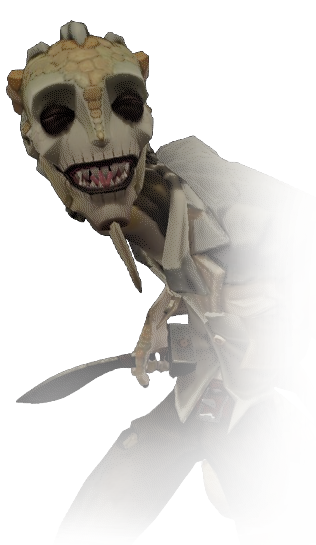
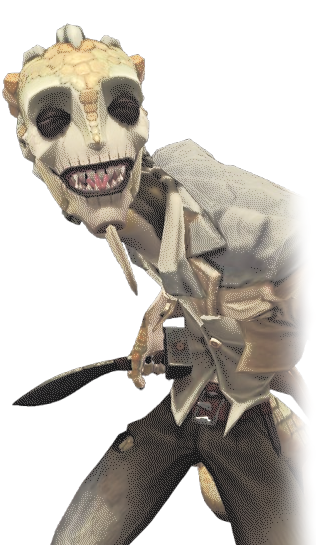
.

diff --git a/luchino_shrine/content.js b/luchino_shrine/content.js
@@ -2,11 +2,11 @@ function selectLink(menuLink) {
   switch (menuLink)
   {
     case "entrance":
-    document.getElementById("display").innerHTML = "<noscript><p>Your browser is unable to run this library. Please disable any javascript blockers or ensure your browser runs javascript.</p></noscript><h4 id='entrance'>&rarr; Valaistuminen</h4><div><p>Luchino is a heart-to-heart message from his designers about their own passions for herpetology, Lovecraft, and gothic metamorphose.</p><p>Welcome yourself to read about Luchino, and my bond with his media by exploring the sitemap.</p><p>Recovery! Rebirth! Emerge.</p></div><h4>&rarr; Photo Gallery</h4><div><img src='images/screencaps/stonemason_curiosity.png' alt='Stonemason examining a lizard.' title='&quot;Stonemason&quot; Luchino examining a lizard.' style='width:50%;'><img src='images/screencaps/boneflute_troubled.png' alt='Boneflute looking troubled.' title='&quot;Boneflute&quot; Luchino is flustered by your beauty!' style='width:50%;'></div><h4>&rarr; Explore Luchino x Norton Artists</h4><div><p>A list of artists not affiliated with the site, but deserve attention.</p><ul><li><a href='https://twitter.com/ntlkonly' target='_blank'>Not Looky!! Web Event</a></li><li><a href='https://twitter.com/saichiidv' target='_blank'>https://twitter.com/saichiidv</a></li><li><a href='https://twitter.com/shino_e8' target='_blank'>https://twitter.com/shino_e8</a></li><li><a href='https://twitter.com/pensablee' target='_blank'>https://twitter.com/pensablee</a></li><li><a href='https://twitter.com/imoyarou_imoimo' target='_blank'>https://twitter.com/imoyarou_imoimo</a></li></ul></div><h4>&rarr; Support The Site</h4><center class='gallery'><a href='https://ko-fi.com/s/2fe85de556' target='_blink'><img src='images/luchinortinvasion_banner.png' alt='' style='image-rendering: auto;'></a></center>";
+    document.getElementById("display").innerHTML = "<noscript><p>Your browser is unable to run this library. Please disable any javascript blockers or ensure your browser runs javascript.</p></noscript><h4 id='entrance'>&rarr; Valaistuminen</h4><div><p>Luchino is a heart-to-heart message from his designers about their own passions for herpetology, Lovecraft, and gothic metamorphose.</p><p>Welcome yourself to read about Luchino, and my bond with his media by exploring the sitemap.</p><p>Recovery! Rebirth! Emerge.</p></div><h4>&rarr; Explore Luchino x Norton Artists</h4><div><p>A list of artists not affiliated with the site, but deserve attention.</p><ul><li><a href='https://twitter.com/ntlkonly' target='_blank'>Not Looky!! Web Event</a></li><li><a href='https://twitter.com/saichiidv' target='_blank'>https://twitter.com/saichiidv</a></li><li><a href='https://twitter.com/shino_e8' target='_blank'>https://twitter.com/shino_e8</a></li><li><a href='https://twitter.com/pensablee' target='_blank'>https://twitter.com/pensablee</a></li><li><a href='https://twitter.com/imoyarou_imoimo' target='_blank'>https://twitter.com/imoyarou_imoimo</a></li></ul></div><h4>&rarr; Support The Site</h4><center class='gallery'><a href='https://ko-fi.com/s/2fe85de556' target='_blink'><img src='images/luchinortinvasion_banner.png' alt='' style='image-rendering: auto;'></a></center>";
 	window.scrollTo(0,0);
     break;
     case "whoIsLuchino":
-    document.getElementById("display").innerHTML = "<h4 id='whoIsLuchino'>&rarr; Who is Luchino?</h4><div><p>Luchino Diruse is a playable character from a Dead-By-Daylight style game called Identity V. He was introduced in Season 6 of the game's running time and just like how DBD is split into killer/survivor sides, Luchino has two playstyles in both IDV's hunter and survivor factions.</p><p>Luchino's fate is what happens when science guides itself into the fog without ethic. He worked as a herpetologist alongside a university prior to his arrival to <a href='https://id5.fandom.com/wiki/Oletus_Manor' target='_blank'>Oletus</a> and is recognized in group 6, denoted by his <a href='https://id5.fandom.com/wiki/Category:Letters' target='_blank'>third character letter</a>'s confirmed serial &quot;6-1-4&quot;. He was known to test reptile bites on himself as his field was venom logic and would experience his very own genetic metamorphosis when given captivity of an unknown lizard-snake species. Some might say this was doomed kismet, but Luchino himself would go on to describe this transformation as a gift, or the &quot;presents from his research&quot;.</p></div><h4>&rarr; His Personality</h4><div class='rightbox'><p>He is described by <a href='https://id5.fandom.com/wiki/Novelist' target='_blank'>the writer of the Character Letters</a> to be &quot;curious, cautious, envious, melancholic.&quot; Luchino is intuitive, bearing in mind other people's intentions before he makes decisions, but composes himself politely when he speaks unopposed to the idea of working with suspicious people when it means furthering his studies. While he can be blunt, precise, and practical-minded, he is humble and realistic, understanding the limit of his abilties.</p><p>Luchino seems to embrace the final stages of his transformation. His <a href='https://id5.fandom.com/wiki/Curiosity_(Emote)' target='_blank'>Character Day emote</a> tributes to his past how he remembers working as an academic professor, literally laughing at his naiveté and others who are like his younger self. This emote also sort of reflects his dark humor. In his last Character Day letter, he expresses enlightment that he no longer cares to persevere in the name of his research. It's not that he doesn't care anymore, but accepts that not everything can be understood by a mere man, and takes conclusion to his research in one last diary at the manor. He begins pursuit of his spirituality as he realizes the (Lovecraftian) nonreality of Oletus.</p><center class='quote'>&quot;And I finally understand that those researchers who regret failing to find the answer are laughable. After all, there was never a true 'answer' in this world.&quot;<br>- IDV's &quot;The Last Page of a Record&quot; (2023)</center><p>His settling mutation has rendered him something self-pleasuring and aggressive towards other people. His humor and sadistic tendencies carry into his (non-canon) online interactions and event dialogues, as he expresses an interest in plant toxins, chasing prey (sort of like a dog...) and unethical experimentation. He is long separated from the professor he once was, but he seems happier than when he was human.</p></div><div><table id='menu'><tr><td style='width:50%;'><center class='quote'>くく…まだそれを…ははは！<br>問うな…人間風情が…<br>私は究極…究極だ…くひひ…<br>お前を喰らいて…究極と化す…<br>その血肉を…きひひゃひゃ！<br>極限の未知の先に辿り着いた、私を、<br>満たす…満たす…満た…………<br>クギ……カ………ひひひ……<br>なぁ…もう良いだろう？<br>▽┰▽＜渇いて…仕方ないんだ…</center></td><td><center class='quote'>Hehe... still that... hahaha!<br>Don't ask... humanity is...<br>I am the ultimate... the ultimate... heehee...<br>I will devour you... and become the ultimate...<br>That flesh and blood... kihihyahya!<br>I have reached the limit of the unknown.<br>Fill... fill... fill... fill.........<br>Nail.... click.... heeheehee...<br>Hey... isn't that enough now?<br>▽┰▽＜ I'm thirsty... I can't help it...</center></td></tr></table></div><br>";
+    document.getElementById("display").innerHTML = "<h4 id='whoIsLuchino'>&rarr; Who is Luchino?</h4><div><p>Luchino Diruse is a playable character from a Dead-By-Daylight style game called Identity V. He was introduced in Season 6 of the game's running time and just like how DBD is split into killer/survivor sides, Luchino has two playstyles in both IDV's hunter and survivor factions.</p><p>Luchino's fate is what happens when science guides itself into the fog without ethic. He worked as a herpetologist alongside a university prior to his arrival to <a href='https://id5.fandom.com/wiki/Oletus_Manor' target='_blank'>Oletus</a> and is recognized in group 6, denoted by his <a href='https://id5.fandom.com/wiki/Category:Letters' target='_blank'>third character letter</a>'s confirmed serial &quot;6-1-4&quot;. He was known to test reptile bites on himself as his field was venom logic and would experience his very own genetic metamorphosis when given captivity of an unknown lizard-snake species. Some might say this was doomed kismet, but Luchino himself would go on to describe this transformation as a gift, or the &quot;presents from his research&quot;.</p></div><h4>&rarr; His Personality</h4><div class='rightbox'><p>He is described by <a href='https://id5.fandom.com/wiki/Novelist' target='_blank'>the writer of the Character Letters</a> to be &quot;curious, cautious, envious, melancholic.&quot; Luchino is intuitive, bearing in mind other people's intentions before he makes decisions, but composes himself politely when he speaks unopposed to the idea of working with suspicious people when it means furthering his studies. While he can be blunt, precise, and practical-minded, he is humble and realistic, understanding the limit of his abilties.</p><p>Luchino seems to embrace the final stages of his transformation. His <a href='https://id5.fandom.com/wiki/Curiosity_(Emote)' target='_blank'>Character Day emote</a> tributes to his past how he remembers working as an academic professor, literally laughing at his naiveté and others who are like his younger self. This emote also sort of reflects his dark humor. In his last Character Day letter, he expresses enlightment that he no longer cares to persevere in the name of his research. It's not that he doesn't care anymore, but accepts that not everything can be understood by a mere man, and takes conclusion to his research in one last diary at the manor. He begins pursuit of his spirituality as he realizes the (Lovecraftian) nonreality of Oletus.</p><center class='quote'>&quot;And I finally understand that those researchers who regret failing to find the answer are laughable. After all, there was never a true 'answer' in this world.&quot;<br>- IDV's &quot;The Last Page of a Record&quot; (2023)</center><p>His settling mutation has rendered him something self-pleasuring and aggressive towards other people. His humor and sadistic tendencies carry into his (non-canon) online interactions and event dialogues, as he expresses an interest in plant toxins, chasing prey (sort of like a dog...) and unethical experimentation. He is long separated from the professor he once was, but he seems happier than when he was human.</p></div><table id='menu'><tr><td style='width:50%;'><center class='quote'>くく…まだそれを…ははは！<br>問うな…人間風情が…<br>私は究極…究極だ…くひひ…<br>お前を喰らいて…究極と化す…<br>その血肉を…きひひゃひゃ！<br>極限の未知の先に辿り着いた、私を、<br>満たす…満たす…満た…………<br>クギ……カ………ひひひ……<br>なぁ…もう良いだろう？<br>▽┰▽＜渇いて…仕方ないんだ…</center></td><td><center class='quote'>Hehe... still that... hahaha!<br>Don't ask... humanity is...<br>I am the ultimate... the ultimate... heehee...<br>I will devour you... and become the ultimate...<br>That flesh and blood... kihihyahya!<br>I have reached the limit of the unknown.<br>Fill... fill... fill... fill.........<br>Nail.... click.... heeheehee...<br>Hey... isn't that enough now?<br>▽┰▽＜ I'm thirsty... I can't help it...</center></td></tr></table><br>";
 	window.scrollTo(0,0);
     break;
     case "luchinosMutations":
@@ -26,7 +26,7 @@ function selectLink(menuLink) {
 	window.scrollTo(0,0);
     break;
     case "luchinort":
-    document.getElementById("display").innerHTML = "<img src='layout_pieces/luchinort-truth_banner.png' alt='Luchinort Truth'><div><p>&quot;LuchiNort (ノトルキnotoruki)&quot; refers to the fan pairing between Luchino and <a href='https://id5.fandom.com/wiki/Prospector' target='_blank'>Norton Campbell</a>, a prospector and playable character.</p><p>I am a LuchiNort monoshipper and I've spent my entire involvement in the Identity V fandom creating sculpts and paintings for this pairing because its a relationship I strive to have.</p><center><a href='https://ko-fi.com/s/0d3f47d398'><img src='images/notoruki_pixel.png' alt='Luchino and Norton in a pixelated style with a red heart.' title='Design by me.' style='width:30%;image-rendering:crisp-edges;'></a></center></div><h4>&rarr; The Parallel</h4><div><p>They have a lot in common. Luchino and Norton were the wheelhorses of their fields so obsessed in their goals that they've broken some sort of ethical boundary to achieve it. Norton eventually blew up a  <a href='https://id5.fandom.com/wiki/Golden_Cave' target='_blank'>mountain</a> before fleeing off-the-grid for prospecting work, and Luchino was taken advantage of as he self-experimented venom samples. Their work also leads them into an affinity with the trascendent, grotesque creatures they cross roads with.</p><p>Inevitably they've been marked by Gla'aki &amp; Yidhra respectively and transform beyond human identity in their own ways (or at least are outcasted by those around them in some way). Their different approaches to transformation and their individual desires make them a compatible, suited, pair if hypothetically to meet.</p><p>Norton is the preservation to Luchino's self harm, and Luchino is the apathetically humorous to Norton's ticking intensity.</p></div><h4>&rarr; Ties In Lovecraft</h4><div><p style='color:#ffffff30;'>Disclaimer: Identity V lore is designed to be undefined and vague. While I share most of fan loric consensus, I have some of my own invented interpretations in the following section.</p><p>Luchino's tale is somewhat of a transhumanist one. The specimen his <a href='https://id5.fandom.com/wiki/Dr._Duquein_Thompson' target='_blank'>coworker</a> gives him comes from a deity <a href='https://id5.fandom.com/wiki/Dream_Witch' target='_blank'>Yidhra</a>, one of the cryptic beasts I was referring to in &quot;Themes of Ambiguity&quot; and shares the name of another <a href='https://lovecraft.fandom.com/wiki/Yidhra' target='_blank'>Yidhra</a>. While not directly involved with the manor and her goals aren't stressed, she's moreso a metaphysical force of nature and &quot;high stakes pest&quot; that <a href='https://id5.fandom.com/wiki/Lakeside_Village' target='_blank'>eventually crosses the manor</a>. Not much is known about the entire collective of Yidhra's metamorphosis's effects, but I like to think Luchino's transformation progresses on the same rate as Norton's.</p><p>When Luchino writes about his developing insanity and turning unhuman &mdash; post-human. He writes about having came to terms with his human ignorance knowing that he won't ever understand &quot;all the answers&quot; and gives up the endless search for &quot;Point B&quot; of science or life. Instead, he pursues pleasure in his new body where he can define the final destination of his experiments and accept complacency, where science couldn't. Before he can even grow his tail he's already accepted the life of a cold, natural predator.</p><p>Norton also has history with another <a href='https://lovecraft.fandom.com/wiki/Glaaki' target='_blank'>otherworldly force named Gla'aki</a> (this time, it is literally Gla'aki). Unlike Luchino, it didn't take long for him to accept that his curse would change his chances of freedom. Norton even sought after his curse and since remained loyal to his original goals, not experiencing the green decay (until decades later into the future according to HP). Where Luchino's curse ended his career, Norton found his.</p></div><h4>&rarr; Their Dynamic</h4><div><p>Luchino spent his life in observation and Norton never had family or friends to humor his problems. Despite them both being introverted and self-sustaining, they learn for the love of it. They may touch base about each other's fields of work as they both envy the fruit of knowledge and that want to learn would keep their bond fresh for years.</p><p><img src='images/notoruki_portrait.png' alt='A Luchino x Norton sketch I drew.' title='Aren&#39;t they cute?' style='float:right;padding:2px;'>Luchino and Norton would keep each other at armslength when first meeting, but eventually develop a long term friendship and bond over that which they can't reach but adore, like the stars that represents Norton's freedom and Luchino's knowledge. I can imagine them having a late-night whiskey next to a banker's lamp. The night tells the time Norton found pockets of a rare type of salt after a cave flood and Luchino tells his field travels in India. When Luchino asks Norton if he's ever traveled overseas, Norton tells him he's never made it out of Britain outside of when he was contracted to another site on the margin. Maybe Luchino would encourage him to apply to the sciences; you can't see the stars from under the tunnels your entire life after all.</p><p>There's also just something melancholic about two servants of greater forces finding comfort in each other because they're the only ones who'll have remembered and seen each other before Yidhra's transformation and the <a href='https://lovecraft.fandom.com/wiki/Servant_of_Glaaki' target='_blank'>Green Decay</a>. It makes you wonder what'd they'd do to support each other from their godly abductors, or how they'd feel if they failed to help at all. What if they both watched each other become something else over time; would Norton find solidarity in his soulmate's reptilian skin, as firm as his burns? Would Luchino mourn Norton succumbing to the green decay's zombification? Does Norton envy the academic life Luchino was gifted?</p></div><h4>&rarr; Community Reception</h4><div><p>In earlier seasons it was controversial to romantically pair hunters with survivors. Luchino x Norton would've been considered a toxic/problematic ship alongside <a href='https://shipping.fandom.com/wiki/JosCarl' target='_blank'>others</a> likely because of literal interpretations of ingame matches where a hunter can <a href='images/jeffthekillyou.jpeg' target='_blank'>jeff the kill you</a> and send you on a coaster-ride abomination that either sends you back to the manor or explodes upon impact, or because Luchino is unhuman. As Identity V became populated with newer/younger generations of players Luchinort media isn't nearly as popular today as it was before. With the introduction to &quot;alternate identities,&quot; people are a lot more accepting of these types of dynamics since a hunter can also be a survivor at the same time.</p></div><center><br><img src='images/screencaps/luchinort_guestbook.png' style='width:80%;image-rendering: smooth;' alt='A guestbook mini-collection from the Autumn Harvest map.' title='A guestbook mini-collection from the Autumn Harvest map.'></center>";
+    document.getElementById("display").innerHTML = "<h4>&rarr; Luchino x Norton</h4><div><p>&quot;LuchiNort (ノトルキnotoruki)&quot; refers to the fan pairing between Luchino and <a href='https://id5.fandom.com/wiki/Prospector' target='_blank'>Norton Campbell</a>, a prospector and playable character.</p><p>I am a LuchiNort monoshipper and I've spent my entire involvement in the Identity V fandom creating sculpts and paintings for this pairing because its a relationship I strive to have.</p><center><a href='https://ko-fi.com/s/0d3f47d398'><img src='images/notoruki_pixel.png' alt='Luchino and Norton in a pixelated style with a red heart.' title='Design by me.' style='width:30%;image-rendering:crisp-edges;'></a></center></div><h4>&rarr; The Parallel</h4><div><p>They have a lot in common. Luchino and Norton were the wheelhorses of their fields so obsessed in their goals that they've broken some sort of ethical boundary to achieve it. Norton eventually blew up a  <a href='https://id5.fandom.com/wiki/Golden_Cave' target='_blank'>mountain</a> before fleeing off-the-grid for prospecting work, and Luchino was taken advantage of as he self-experimented venom samples. Their work also leads them into an affinity with the trascendent, grotesque creatures they cross roads with.</p><p>Inevitably they've been marked by Gla'aki &amp; Yidhra respectively and transform beyond human identity in their own ways (or at least are outcasted by those around them in some way). Their different approaches to transformation and their individual desires make them a compatible, suited, pair if hypothetically to meet.</p><p>Norton is the preservation to Luchino's self harm, and Luchino is the apathetically humorous to Norton's ticking intensity.</p></div><h4>&rarr; Ties In Lovecraft</h4><div><p style='color:#00000070;'>Disclaimer: Identity V lore is designed to be undefined and vague. While I share most of fan loric consensus, I have some of my own invented interpretations in the following section.</p><p>Luchino's tale is somewhat of a transhumanist one. The specimen his <a href='https://id5.fandom.com/wiki/Dr._Duquein_Thompson' target='_blank'>coworker</a> gives him comes from a deity <a href='https://id5.fandom.com/wiki/Dream_Witch' target='_blank'>Yidhra</a>, one of the cryptic beasts I was referring to in &quot;Themes of Ambiguity&quot; and shares the name of another <a href='https://lovecraft.fandom.com/wiki/Yidhra' target='_blank'>Yidhra</a>. While not directly involved with the manor and her goals aren't stressed, she's moreso a metaphysical force of nature and &quot;high stakes pest&quot; that <a href='https://id5.fandom.com/wiki/Lakeside_Village' target='_blank'>eventually crosses the manor</a>. Not much is known about the entire collective of Yidhra's metamorphosis's effects, but I like to think Luchino's transformation progresses on the same rate as Norton's.</p><p>When Luchino writes about his developing insanity and turning unhuman &mdash; post-human. He writes about having came to terms with his human ignorance knowing that he won't ever understand &quot;all the answers&quot; and gives up the endless search for &quot;Point B&quot; of science or life. Instead, he pursues pleasure in his new body where he can define the final destination of his experiments and accept complacency, where science couldn't. Before he can even grow his tail he's already accepted the life of a cold, natural predator.</p><p>Norton also has history with another <a href='https://lovecraft.fandom.com/wiki/Glaaki' target='_blank'>otherworldly force named Gla'aki</a> (this time, it is literally Gla'aki). Unlike Luchino, it didn't take long for him to accept that his curse would change his chances of freedom. Norton even sought after his curse and since remained loyal to his original goals, not experiencing the green decay (until decades later into the future according to HP). Where Luchino's curse ended his career, Norton found his.</p></div><h4>&rarr; Their Dynamic</h4><div><p>Luchino spent his life in observation and Norton never had family or friends to humor his problems. Despite them both being introverted and self-sustaining, they learn for the love of it. They may touch base about each other's fields of work as they both envy the fruit of knowledge and that want to learn would keep their bond fresh for years.</p><p><img src='images/notoruki_portrait.png' alt='A Luchino x Norton sketch I drew.' title='Aren&#39;t they cute?' style='float:right;padding:2px;'>Luchino and Norton would keep each other at armslength when first meeting, but eventually develop a long term friendship and bond over that which they can't reach but adore, like the stars that represents Norton's freedom and Luchino's knowledge. I can imagine them having a late-night whiskey next to a banker's lamp. The night tells the time Norton found pockets of a rare type of salt after a cave flood and Luchino tells his field travels in India. When Luchino asks Norton if he's ever traveled overseas, Norton tells him he's never made it out of Britain outside of when he was contracted to another site on the margin. Maybe Luchino would encourage him to apply to the sciences; you can't see the stars from under the tunnels your entire life after all.</p><p>There's also just something melancholic about two servants of greater forces finding comfort in each other because they're the only ones who'll have remembered and seen each other before Yidhra's transformation and the <a href='https://lovecraft.fandom.com/wiki/Servant_of_Glaaki' target='_blank'>Green Decay</a>. It makes you wonder what'd they'd do to support each other from their godly abductors, or how they'd feel if they failed to help at all. What if they both watched each other become something else over time; would Norton find solidarity in his soulmate's reptilian skin, as firm as his burns? Would Luchino mourn Norton succumbing to the green decay's zombification? Does Norton envy the academic life Luchino was gifted?</p></div><h4>&rarr; Community Reception</h4><div><p>In earlier seasons it was controversial to romantically pair hunters with survivors. Luchino x Norton would've been considered a toxic/problematic ship alongside <a href='https://shipping.fandom.com/wiki/JosCarl' target='_blank'>others</a> likely because of literal interpretations of ingame matches where a hunter can <a href='images/jeffthekillyou.jpeg' target='_blank'>jeff the kill you</a> and send you on a coaster-ride abomination that either sends you back to the manor or explodes upon impact, or because Luchino is unhuman. As Identity V became populated with newer/younger generations of players Luchinort media isn't nearly as popular today as it was before. With the introduction to &quot;alternate identities,&quot; people are a lot more accepting of these types of dynamics since a hunter can also be a survivor at the same time.</p></div>";
 	window.scrollTo(0,0);
     break;
     case "musicPlaylist":

diff --git a/luchino_shrine/css.css b/luchino_shrine/css.css
@@ -1,17 +1,21 @@
 /* GLOBAL ROOT */
 :root{
-  --bgColor:#000000;
-  --heading:#ffffff;
-  --headingBorder:#c20c33;
-  --linkColor:#69666b;
-  --linkHover:#851b23;
-  --liLinkColor:#ffffff50;
-  --liLinkBorder:#911971;
+  --bgColor:#e1e3e1;
+  --bgColorOpacity:#e1e3e160;
+  --bgColor2:#ffffff;
+  --heading:#000000;
+  --headingBorder:#ffffff;
+  --rContainerBg:#00000020;
+  --tdHover:#00000030;
+  --linkColor:#666100;
+  --linkHover:#666100;
+  --liLinkColor:#ffffff;
+  --liLinkBorder:#b33b00;
   --borderStyle:dotted;
-  --borderColor:#ffffff;
+  --borderColor:#000000;
 }
 html{scroll-behavior: smooth;scrollbar-width: auto;}
-#body{background:var(--bgColor);box-shadow:0px 0px 5px 4px var(--bgColor);}
+#body{background:linear-gradient(180deg, var(--bgColor) 0%, var(--bgColor) 100%);box-shadow:0px 0px 5px 4px var(--bgColor);}
 body{
   font-family: "MS PGothic", sans-serif; font-size:12px;
   image-rendering: crisp-edges;
@@ -21,10 +25,10 @@ body{
 }
 #body{width:644px;margin:0 auto;}
 #body section, #body div, .lContainer, .rContainer{box-sizing:border-box;}
-hr {background-image: linear-gradient(to right, #ffffff00, #ffffff, #ffffff00);border: 0;height:1px;}
-ul li {list-style-type: "→ "; margin:0px 10px 0px 0px; border-bottom:1px var(--borderStyle) #ffffff90;
+hr {background-image: linear-gradient(to right, #00000000, #000000, #00000000);border: 0;height:1px;}
+ul li {list-style-type: "→ "; margin:0px 10px 0px 0px; border-bottom:1px var(--borderStyle) var(--borderColor);
 }
-a, a:visited{color:var(--linkColor);text-decoration:none;cursor:pointer;}
+a, a:visited{color:var(--linkColor);border-bottom:1px dotted var(--linkHover);text-decoration:none;cursor:pointer;}
 a:hover{color:var(--linkHover);}
 h4 a, h4 a:hover{color:#ffffff;text-shadow: -1px -1px 0 var(--liLinkBorder), 1px -1px 0 var(--liLinkBorder), -1px 1px 0 var(--liLinkBorder), 1px 1px 0 var(--liLinkBorder);}
 p{padding:0px 10px 0px 10px;}
@@ -33,9 +37,9 @@ ul{margin:0px 0px 3px 0px;padding:3px 0px 3px 35px;}
 table{width:100%;}
 td{background-size:cover !important;padding:3px;color:#363636;vertical-align:top;}
 td img{image-rendering:auto;}
-td:hover{color:#ffffff;transition:.3s ease;}
+td:nth-child(1):hover{background:var(--tdHover); transition:.3s ease;}
 img:hover{cursor:crosshair;}
-#top, #map, #bottom{border:1px var(--heading);}
+#top, #map, #bottom{border:1px var(--borderColor);}
 #map, #bottom{min-height:200px;padding:10px 0px 0px 0px;text-align:center;}
 #top{background:url("layout_pieces/top.png")no-repeat bottom left;border-style: none none var(--borderStyle) none;min-height:128px;}
 #map{background:url('layout_pieces/map_banner.png')no-repeat top left;border-style: var(--borderStyle) none none none;}
@@ -44,24 +48,26 @@ audio, audio:hover .playlist, .playlist div:hover,.gallery img{transition:.5s ea
 .lContainer, .rContainer{border:1px var(--borderColor);}
 .lContainer audio{width:100%;}
 .rContainer{border-style:none none none var(--borderStyle);}
-.rContainer div, td {background:#ffffff10;padding:2px 0px 4px 0px;margin:3px 0px 3px 0px;}
+.rContainer div, td {background:var(--rContainerBg); border: 1px var(--borderColor); padding:2px 0px 4px 0px;margin:3px 0px 3px 0px;}
+.rContainer td{border-style:dotted dotted dotted dotted;}
+.rContainer div{border-style:dotted dotted dotted none;}
 .rContainer img{max-width:100%;}
-.inContent .lContainer > h4{background:linear-gradient(90deg, var(--bgColor) 0%, var(--bgColor) 5%, #00000000 15%, #00000000 80%, var(--bgColor) 95%, var(--bgColor) 100%), url("layout_pieces/boneflute_scales_texture-flip.gif") repeat-x;}
-.inContent .rContainer > h4{background:linear-gradient(90deg, var(--bgColor) 0%,var(--bgColor) 5%, #00000000 15%, #00000000 80%, var(--bgColor) 95%,var(--bgColor) 100%), url("layout_pieces/boneflute_scales_texture.gif")repeat-x}
+.inContent .lContainer > h4{background:linear-gradient(90deg, var(--bgColor) 0%, var(--bgColor) 5%, var(--bgColorOpacity) 15%, var(--bgColorOpacity) 80%, var(--bgColor) 95%, var(--bgColor) 100%), url("layout_pieces/bill_scales_texture-flip.gif") repeat-x;}
+.inContent .rContainer > h4{background:linear-gradient(90deg, var(--bgColor) 0%,var(--bgColor) 5%, var(--bgColorOpacity) 15%, var(--bgColorOpacity) 80%, var(--bgColor) 95%,var(--bgColor) 100%), url("layout_pieces/bill_scales_texture.gif")repeat-x}
 .demo{height:170px;}
-.gallery img{filter:brightness(40%);}
-.gallery img:hover{filter:brightness(100%);}
+.gallery img{filter:opacity(60%);}
+.gallery img:hover{filter:opacity(100%);}
 
 /* DESKTOP */
 
 @media(min-width:700px){
-  body{background: url("images/screencaps/verifier_shame.png") no-repeat bottom left, linear-gradient(180deg,#00000000 0%, var(--bgColor) 70%, var(--bgColor) 100%), url("layout_pieces/bg_blackscales.gif"), var(--bgColor) !important;
+  body{background: url("images/screencaps/stonemason_smiling.png") no-repeat bottom left, linear-gradient(180deg, var(--bgColor2) 0%, #00000000 3%, var(--bgColor2) 70%, var(--bgColor2) 100%),  url("layout_pieces/gridgray.png"), var(--bgColor2) !important;
   }
   h1, h2, h3, h4, details, span{padding:4px 10px 4px 10px;}
   audio{width:100%;filter:opacity(20%);border:var(--borderColor) 1px;border-style: none none var(--borderStyle) none;}
   audio:hover{filter:opacity(90%);}
   table td:nth-child(2){width:160px !important; height:160px;}
-  .lContainer{background:url('layout_pieces/nav.png') no-repeat, url('layout_pieces/nav_footer.png') no-repeat;width:35%;background-position:top left;background-position:0% 0%, 0% 100%;padding:100px 0px 130px 0px;}
+  .lContainer{background:url('layout_pieces/nav.png') no-repeat;width:35%;background-position:top left;background-position:0% 0%, 0% 100%;padding:100px 0px 30px 0px;}
   .rContainer{width:65%;}
 }
 

diff --git a/luchino_shrine/index.html b/luchino_shrine/index.html
@@ -47,20 +47,10 @@
 	</section>
   </div>
   <div id="map">
-    <img src="graphic_int/entrance.png" onmouseover="this.src='graphic_int/entrance-hover.png'" onmouseout="this.src='graphic_int/entrance.png'" onclick="selectLink('entrance')" alt="Entrance" title="Entrance">
-	<img src="graphic_int/other_testimonies.png" onmouseover="this.src='graphic_int/other_testimonies-hover.png'" onmouseout="this.src='graphic_int/other_testimonies.png'" onclick="selectLink('otherTestimonies')" alt="Other Testimonies" title="Other Testimonies">
-	<img src="graphic_int/contact.png" onmouseover="this.src='graphic_int/contact-hover.png'" onmouseout="this.src='graphic_int/contact.png'" onclick="selectLink('contact')" alt="Contact" title="Contact">
-    <img src="graphic_int/who_is_luchino.png" onmouseover="this.src='graphic_int/who_is_luchino-hover.png'" onmouseout="this.src='graphic_int/who_is_luchino.png'" onclick="selectLink('whoIsLuchino')" alt="Who Is Luchino?" title="Who Is Luchino?">
-    <img src="graphic_int/luchinos_mutations.png" onmouseover="this.src='graphic_int/luchinos_mutations-hover.png'" onmouseout="this.src='graphic_int/luchinos_mutations.png'" onclick="selectLink('luchinosMutations')" alt="Luchino's Mutations" title="Luchino's Mutations">
-    <img src="graphic_int/themes_of_ambiguity.png" onmouseover="this.src='graphic_int/themes_of_ambiguity-hover.png'" onmouseout="this.src='graphic_int/themes_of_ambiguity.png'" onclick="selectLink('ambiguityThemes')" alt="Themes Of Ambiguity" title="Themes Of Ambiguity">
-    <img src="graphic_int/list_of_headcanons.png" onmouseover="this.src='graphic_int/list_of_headcanons-hover.png'" onmouseout="this.src='graphic_int/list_of_headcanons.png'" onclick="selectLink('headcanonsList')" alt="List Of Headcanons" title="List Of Headcanons">
-	<img src="graphic_int/music_playlist.png" onmouseover="this.src='graphic_int/music_playlist-hover.png'" onmouseout="this.src='graphic_int/music_playlist.png'" onclick="selectLink('musicPlaylist')" alt="Music Playlist" title="Music Playlist">
-	<img src="graphic_int/merchandise_i_collected.png" onmouseover="this.src='graphic_int/merchandise_i_collected-hover.png'" onmouseout="this.src='graphic_int/merchandise_i_collected.png'" onclick="selectLink('merchCollection')" alt="Merchandise I Collected" title="Merchandise I Collected">
-    <img src="graphic_int/luchinort.png" onmouseover="this.src='graphic_int/luchinort-hover.png'" onmouseout="this.src='graphic_int/luchinort.png'" onclick="selectLink('luchinort')" alt="Sect Of Luchinort" title="Sect Of Luchinort"><br>
   </div>
   <section id="bottom">
-	<p><center><img src='images/hunt_luchino_40x40.gif' alt='Pixel Luchino' title='Luchino drawn and animated by Gristlepod.'></center>church of luchino running since 2024<br>made with notepad, powered by github.<br><br>
-	<normal style="color:#ffffff24;">Developed and updated by one fan. Identity V, Luchino Diruse, and official images featured on this site are properties sourced from NetEase® publisher. All content &copy; respective owners.</normal></p>
+	<p><center><img src='images/hunt_luchino_40x40.gif' alt='Pixel Luchino' title='Luchino drawn and animated by Gristlepod.'></center>church of luchino running since 2024<br>made with notepad, powered by github.<br>
+	<normal>Developed and updated by one fan. Identity V, Luchino Diruse, and official images featured on this site are properties sourced from NetEase® publisher. All content &copy; respective owners.</normal></p>
   </section>
 </div>
 <script>
